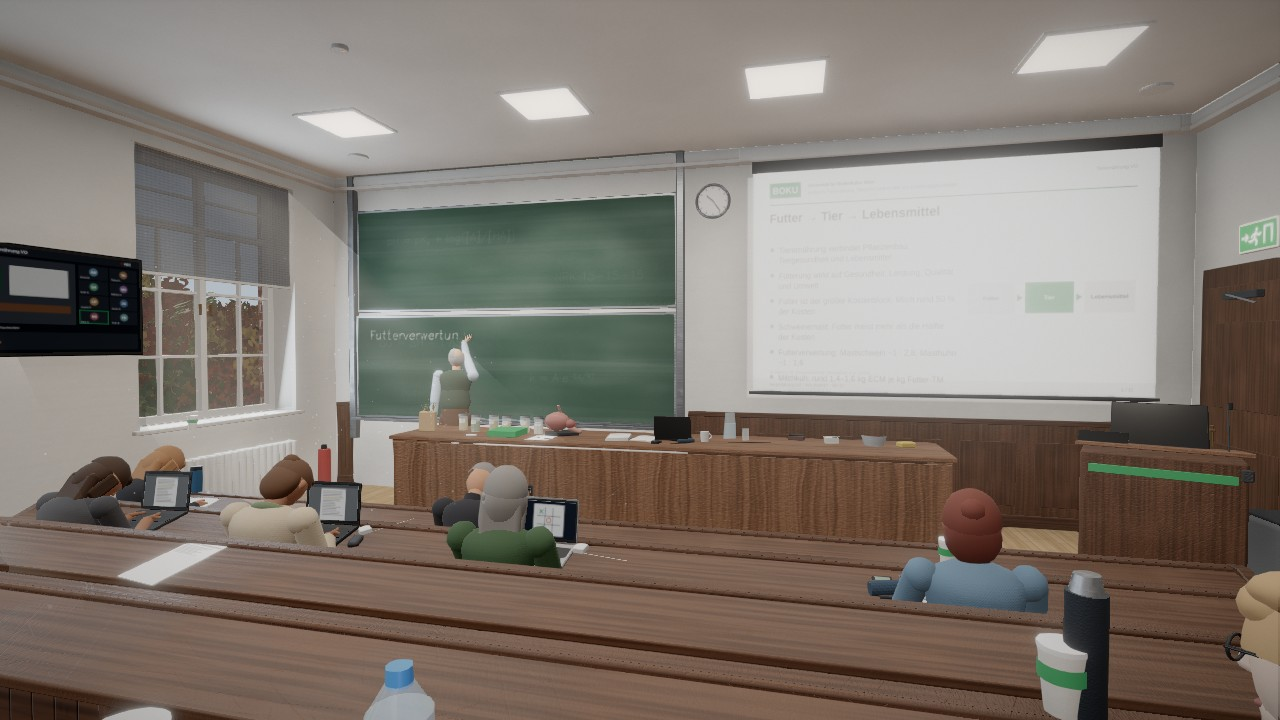
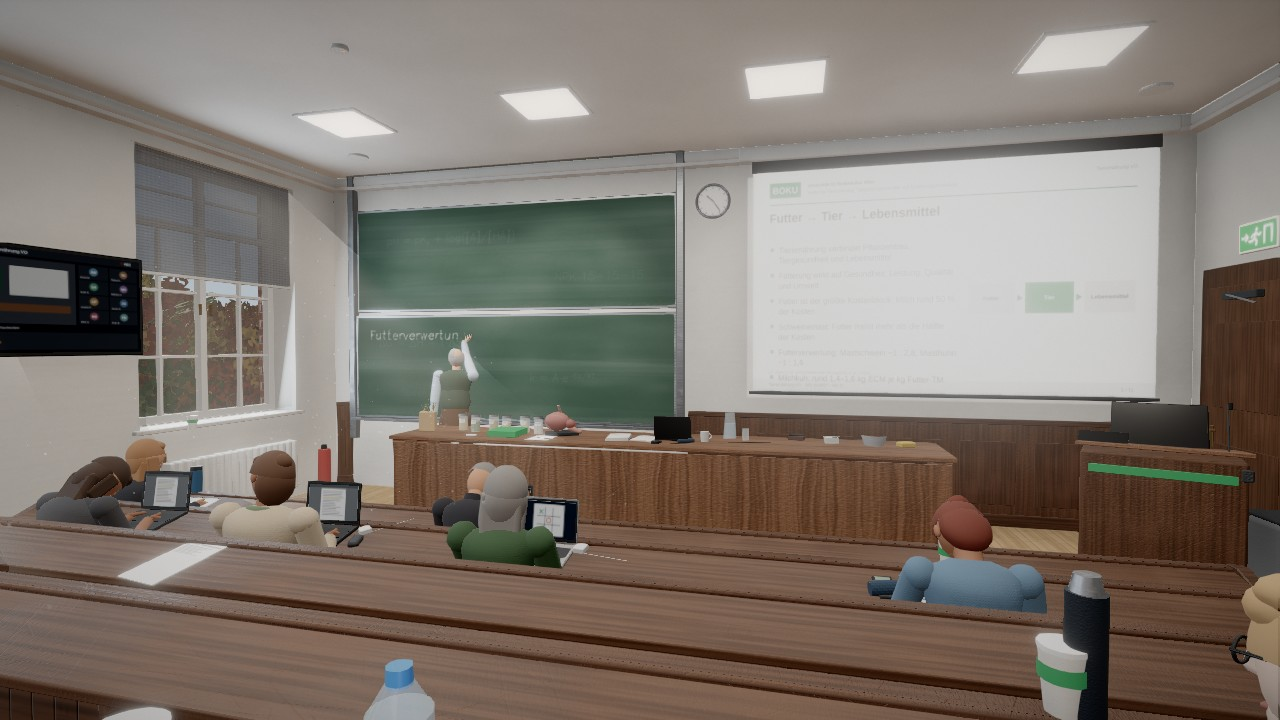
Performance-Tabelle und Preset-Screenshots nach Schatten-Optimierung
Claude-Session: https://claude.ai/code/session_0117T88ENHFcjcmrZoivZCwB

diff --git a/docs/PERFORMANCE.md b/docs/PERFORMANCE.md
@@ -15,14 +15,14 @@ Hauptbild und Post-Stack.
 <!--PERF-TABLE-->
 | Stufe | Blick | Draw Calls | Dreiecke | Geometrien | Texturen | Shader-Programme | Bildzeit SwiftShader* |
 |---|---|---|---|---|---|---|---|
-| Niedrig | Sitzplatz | 167 | 1 151 518 | 142 | 172 | 90 | 10,6 ms |
-| Niedrig | Laptop | 153 | 1 145 994 | 142 | 172 | 90 | 24,8 ms |
-| Mittel | Sitzplatz | 278 | 1 858 071 | 149 | 209 | 106 | 16 ms |
-| Mittel | Laptop | 273 | 1 852 851 | 149 | 217 | 115 | 151,6 ms |
-| Hoch | Sitzplatz | 371 | 2 730 107 | 149 | 216 | 108 | 13,4 ms |
-| Hoch | Laptop | 366 | 2 724 887 | 149 | 224 | 117 | 55,2 ms |
-| Ultra | Sitzplatz | 373 | 4 783 452 | 151 | 214 | 107 | 25,4 ms |
-| Ultra | Laptop | 363 | 4 777 554 | 151 | 222 | 116 | 57 ms |
+| Niedrig | Sitzplatz | 156 | 1 149 382 | 141 | 172 | 90 | 6,3 ms |
+| Niedrig | Laptop | 142 | 1 143 666 | 141 | 172 | 90 | 6,5 ms |
+| Mittel | Sitzplatz | 252 | 1 852 573 | 149 | 206 | 106 | 14,1 ms |
+| Mittel | Laptop | 248 | 1 847 461 | 149 | 214 | 115 | 43,6 ms |
+| Hoch | Sitzplatz | 328 | 2 721 203 | 148 | 212 | 108 | 15,2 ms |
+| Hoch | Laptop | 321 | 2 715 671 | 148 | 220 | 117 | 44,5 ms |
+| Ultra | Sitzplatz | 326 | 4 774 842 | 146 | 209 | 107 | 14 ms |
+| Ultra | Laptop | 322 | 4 769 730 | 146 | 217 | 116 | 34,5 ms |
 
 \* CPU-Rasterizer, nur relativ vergleichbar. Gemessen am 2026-10-28.
 <!--/PERF-TABLE-->
